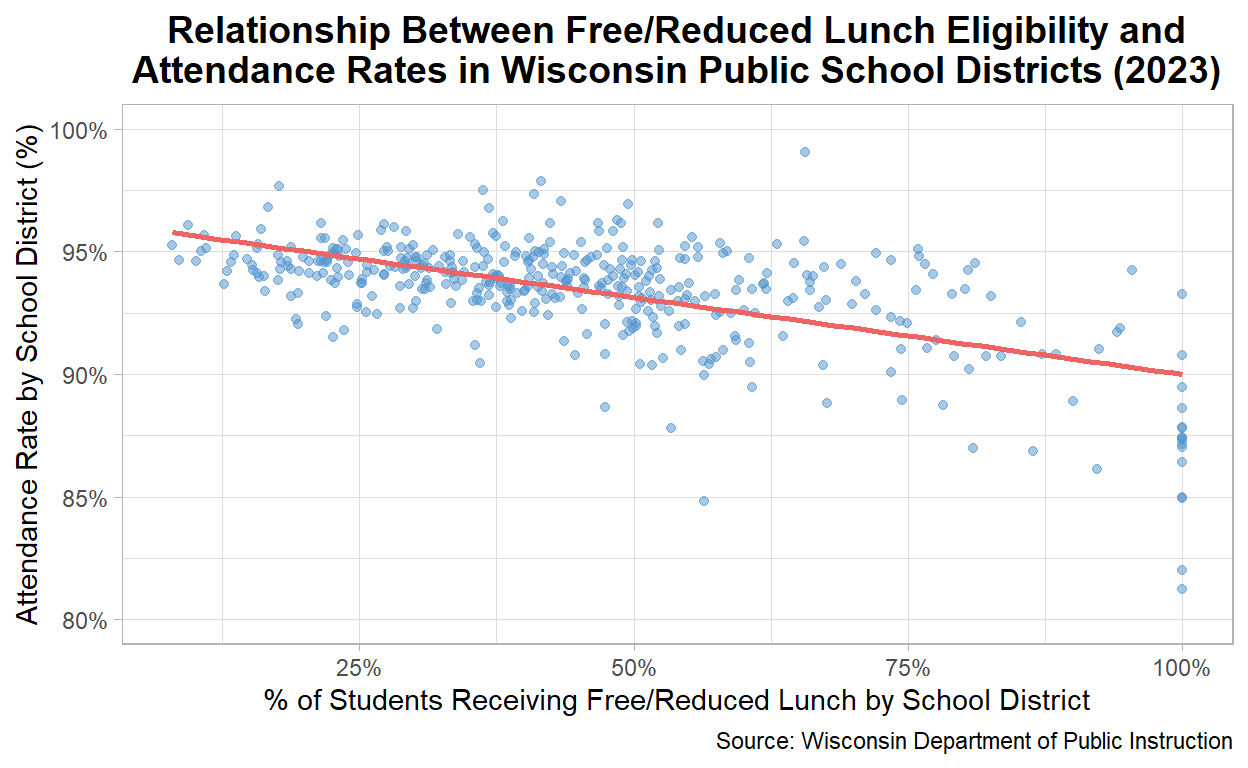
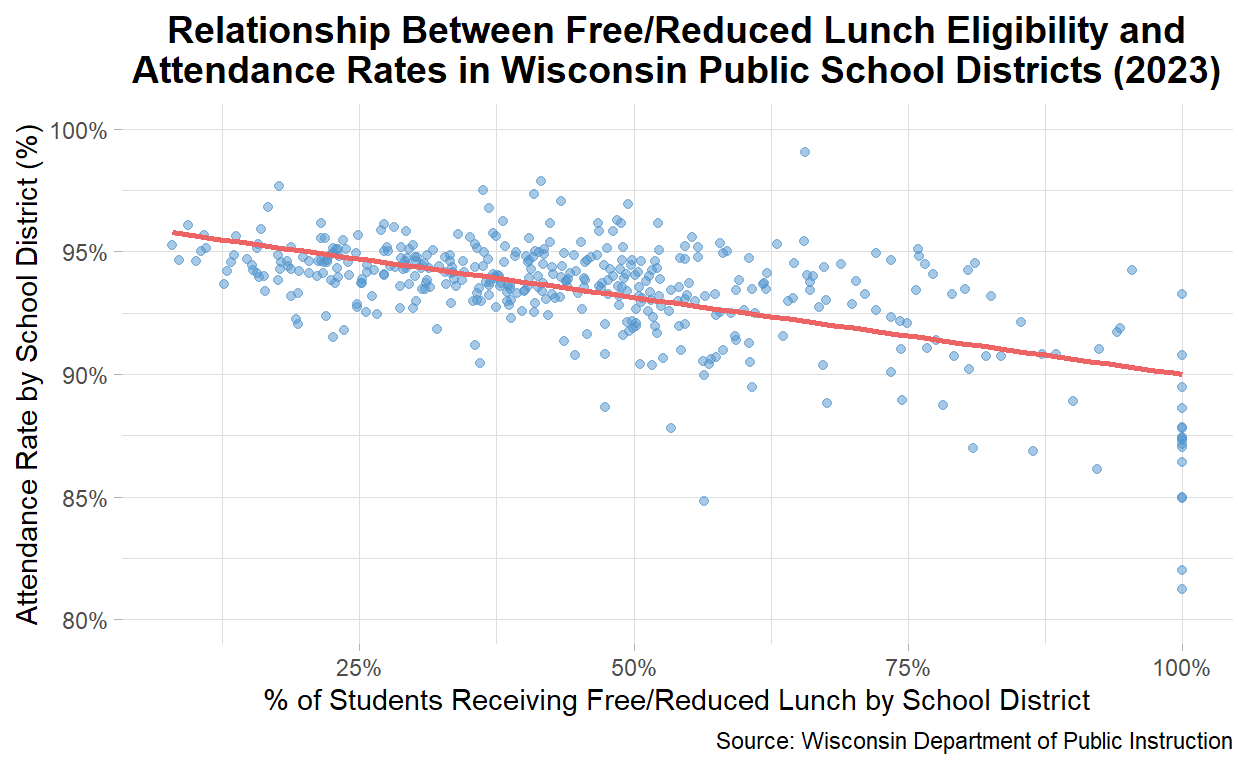
No borders

diff --git a/index.html b/index.html
@@ -1599,7 +1599,8 @@ code span.wa { color: #5e5e5e; font-style: italic; } /* Warning */
 <span>       caption <span class='op'>=</span> <span class='st'>"Source: Wisconsin Department of Public Instruction"</span><span class='op'>)</span> <span class='op'>+</span></span>
 <span>  <span class='fu'><a href='https://ggplot2.tidyverse.org/reference/scale_continuous.html'>scale_x_continuous</a></span><span class='op'>(</span>labels <span class='op'>=</span> <span class='fu'>scales</span><span class='fu'>::</span><span class='va'><a href='https://scales.r-lib.org/reference/percent_format.html'>percent</a></span>, limits <span class='op'>=</span> <span class='fu'><a href='https://rdrr.io/r/base/c.html'>c</a></span><span class='op'>(</span><span class='fl'>0.8</span>, <span class='fl'>1</span><span class='op'>)</span><span class='op'>)</span> <span class='op'>+</span></span>
 <span>  <span class='fu'><a href='https://ggplot2.tidyverse.org/reference/ggtheme.html'>theme_light</a></span><span class='op'>(</span><span class='op'>)</span> <span class='op'>+</span></span>
-<span>  <span class='fu'><a href='https://ggplot2.tidyverse.org/reference/theme.html'>theme</a></span><span class='op'>(</span>plot.title <span class='op'>=</span> <span class='fu'><a href='https://ggplot2.tidyverse.org/reference/element.html'>element_text</a></span><span class='op'>(</span>size <span class='op'>=</span> <span class='fl'>14</span>, face <span class='op'>=</span> <span class='st'>"bold"</span>, hjust <span class='op'>=</span> <span class='fl'>0.5</span><span class='op'>)</span><span class='op'>)</span></span></code></pre>
+<span>  <span class='fu'><a href='https://ggplot2.tidyverse.org/reference/theme.html'>theme</a></span><span class='op'>(</span>plot.title <span class='op'>=</span> <span class='fu'><a href='https://ggplot2.tidyverse.org/reference/element.html'>element_text</a></span><span class='op'>(</span>size <span class='op'>=</span> <span class='fl'>14</span>, face <span class='op'>=</span> <span class='st'>"bold"</span>, hjust <span class='op'>=</span> <span class='fl'>0.5</span><span class='op'>)</span><span class='op'>)</span> <span class='op'>+</span></span>
+<span>  <span class='fu'><a href='https://ggplot2.tidyverse.org/reference/theme.html'>theme</a></span><span class='op'>(</span>panel.border <span class='op'>=</span> <span class='fu'><a href='https://ggplot2.tidyverse.org/reference/element.html'>element_blank</a></span><span class='op'>(</span><span class='op'>)</span><span class='op'>)</span></span></code></pre>
 </div>
 <p><img src="index_files/figure-html5/Dependent%20Histogram-1.png" width="624" /></p>
 </div>
@@ -1617,7 +1618,8 @@ code span.wa { color: #5e5e5e; font-style: italic; } /* Warning */
 <span>  <span class='fu'><a href='https://ggplot2.tidyverse.org/reference/scale_continuous.html'>scale_x_continuous</a></span><span class='op'>(</span>labels <span class='op'>=</span> <span class='fu'>scales</span><span class='fu'>::</span><span class='va'><a href='https://scales.r-lib.org/reference/percent_format.html'>percent</a></span><span class='op'>)</span> <span class='op'>+</span> </span>
 <span>  <span class='fu'><a href='https://ggplot2.tidyverse.org/reference/scale_continuous.html'>scale_y_continuous</a></span><span class='op'>(</span>labels <span class='op'>=</span> <span class='fu'>scales</span><span class='fu'>::</span><span class='va'><a href='https://scales.r-lib.org/reference/percent_format.html'>percent</a></span>, limits <span class='op'>=</span> <span class='fu'><a href='https://rdrr.io/r/base/c.html'>c</a></span><span class='op'>(</span><span class='fl'>0.8</span>, <span class='fl'>1</span><span class='op'>)</span><span class='op'>)</span> <span class='op'>+</span> </span>
 <span>  <span class='fu'><a href='https://ggplot2.tidyverse.org/reference/ggtheme.html'>theme_light</a></span><span class='op'>(</span><span class='op'>)</span> <span class='op'>+</span></span>
-<span>  <span class='fu'><a href='https://ggplot2.tidyverse.org/reference/theme.html'>theme</a></span><span class='op'>(</span>plot.title <span class='op'>=</span> <span class='fu'><a href='https://ggplot2.tidyverse.org/reference/element.html'>element_text</a></span><span class='op'>(</span>size <span class='op'>=</span> <span class='fl'>14</span>, face <span class='op'>=</span> <span class='st'>"bold"</span>, hjust <span class='op'>=</span> <span class='fl'>0.5</span><span class='op'>)</span><span class='op'>)</span></span></code></pre>
+<span>  <span class='fu'><a href='https://ggplot2.tidyverse.org/reference/theme.html'>theme</a></span><span class='op'>(</span>plot.title <span class='op'>=</span> <span class='fu'><a href='https://ggplot2.tidyverse.org/reference/element.html'>element_text</a></span><span class='op'>(</span>size <span class='op'>=</span> <span class='fl'>14</span>, face <span class='op'>=</span> <span class='st'>"bold"</span>, hjust <span class='op'>=</span> <span class='fl'>0.5</span><span class='op'>)</span><span class='op'>)</span> <span class='op'>+</span></span>
+<span>  <span class='fu'><a href='https://ggplot2.tidyverse.org/reference/theme.html'>theme</a></span><span class='op'>(</span>panel.border <span class='op'>=</span> <span class='fu'><a href='https://ggplot2.tidyverse.org/reference/element.html'>element_blank</a></span><span class='op'>(</span><span class='op'>)</span><span class='op'>)</span></span></code></pre>
 </div>
 <p><img src="index_files/figure-html5/Scatterplot-1.png" width="624" /></p>
 </div>
